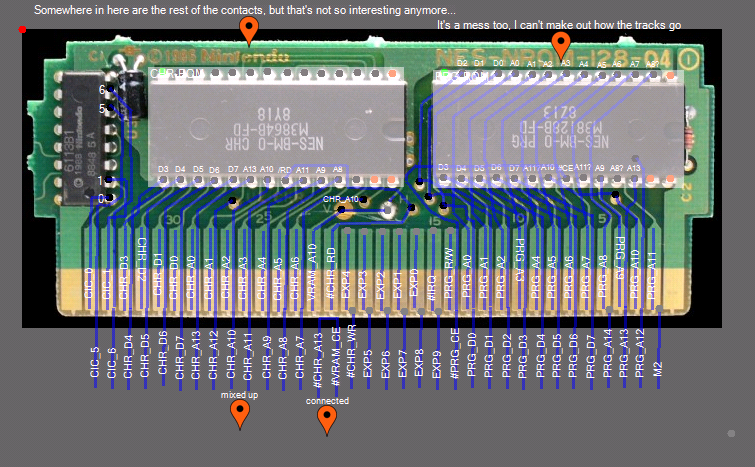
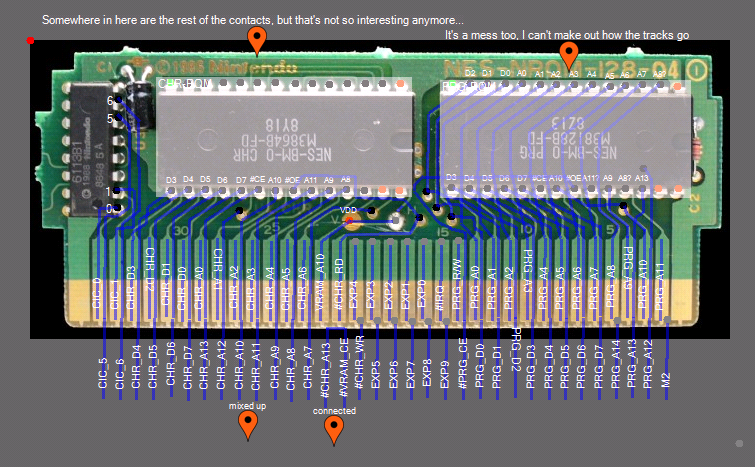
More NROM info

diff --git a/Docs/Mappers/NES_NROM_128/Readme.md b/Docs/Mappers/NES_NROM_128/Readme.md
@@ -5,6 +5,7 @@
 ![2](2.png)
 
 - NROM contains a jumper between `/PA13` and `/VRAM_CS`
-- VRAM A10 connected to PPU A10 (V Mirroring)
+- VRAM A10 connected to Vdd (V Mirroring)
+- CHR_A13 is actually `/CS` for CHR-ROM
 
 Source: https://nescartdb.com/profile/view/834/bomberman
